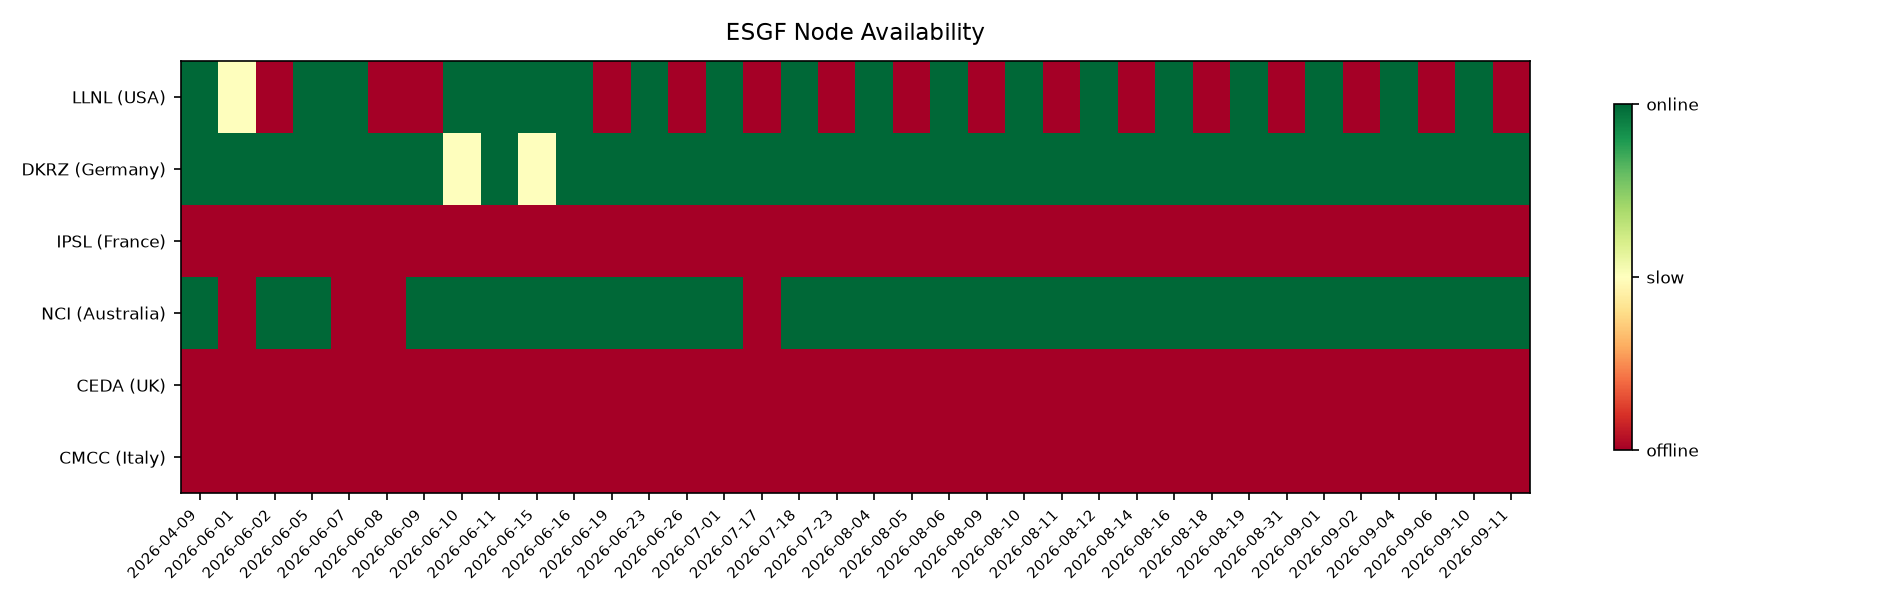
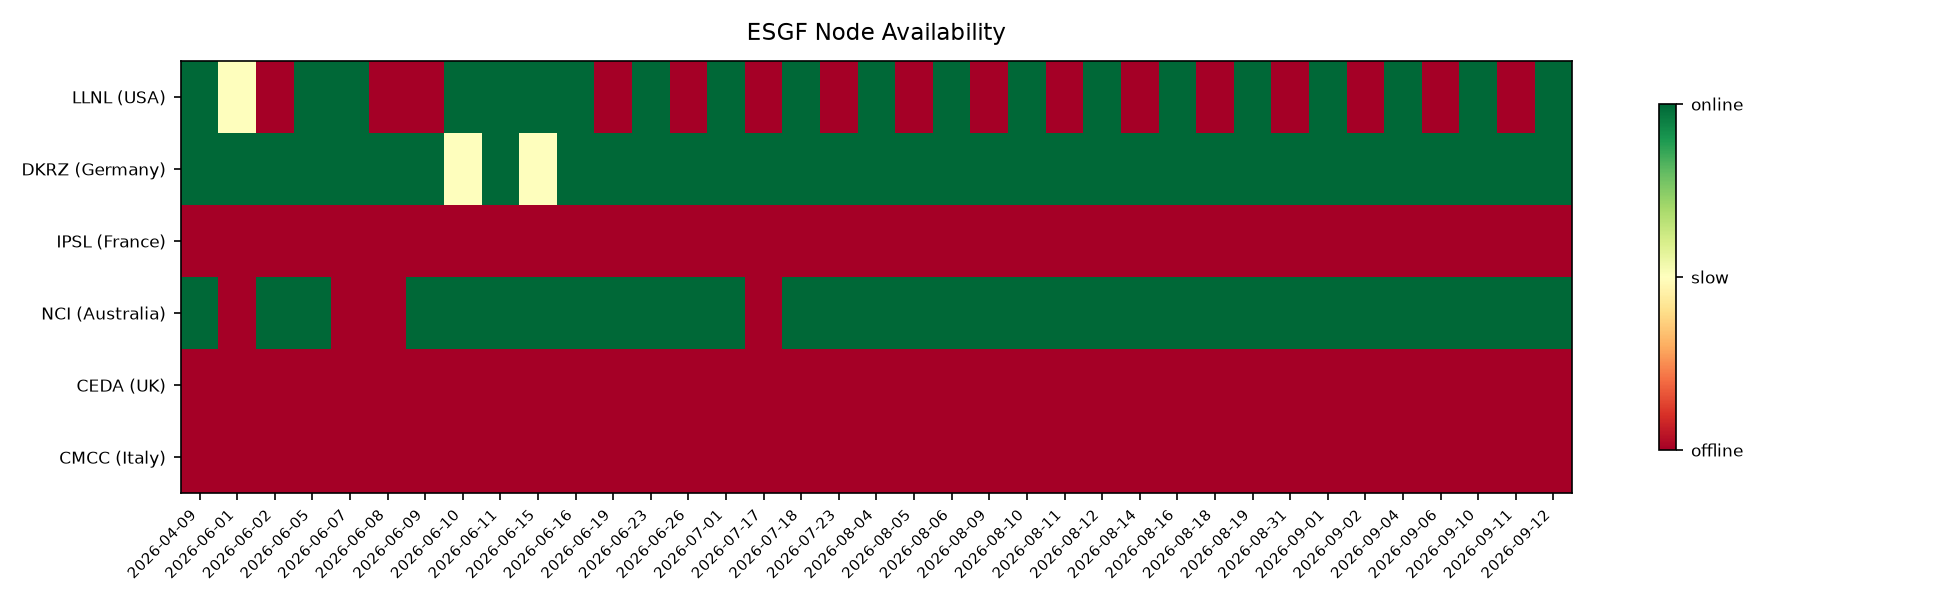
daily: update CMIP6 ESGF node availability status

diff --git a/docs/esgf-status.md b/docs/esgf-status.md
@@ -1,15 +1,15 @@
 # ESGF Node Availability Status
 
-_Last checked: 2026-09-11 UTC_
+_Last checked: 2026-09-12 UTC_
 
 | Node | URL | Status | Response (ms) |
 |------|-----|--------|---------------|
-| LLNL (USA) | https://esgf-node.llnl.gov/thredds/catalog.html | 🔴 offline | — |
-| DKRZ (Germany) | https://esgf-data.dkrz.de/thredds/catalog.html | 🟢 online | 1584 |
-| IPSL (France) | https://esgf-node.ipsl.upmc.fr/thredds/catalog.html | 🔴 offline | 735 |
-| NCI (Australia) | https://esgf.nci.org.au/thredds/catalog.html | 🟢 online | 1812 |
+| LLNL (USA) | https://esgf-node.llnl.gov/thredds/catalog.html | 🟢 online | 1077 |
+| DKRZ (Germany) | https://esgf-data.dkrz.de/thredds/catalog.html | 🟢 online | 1841 |
+| IPSL (France) | https://esgf-node.ipsl.upmc.fr/thredds/catalog.html | 🔴 offline | 808 |
+| NCI (Australia) | https://esgf.nci.org.au/thredds/catalog.html | 🟢 online | 2464 |
 | CEDA (UK) | https://esgf-index1.ceda.ac.uk/thredds/catalog.html | 🔴 offline | — |
-| CMCC (Italy) | https://esgf-node.cmcc.it/thredds/catalog.html | 🔴 offline | 963 |
+| CMCC (Italy) | https://esgf-node.cmcc.it/thredds/catalog.html | 🔴 offline | 1023 |
 
 ---
 
